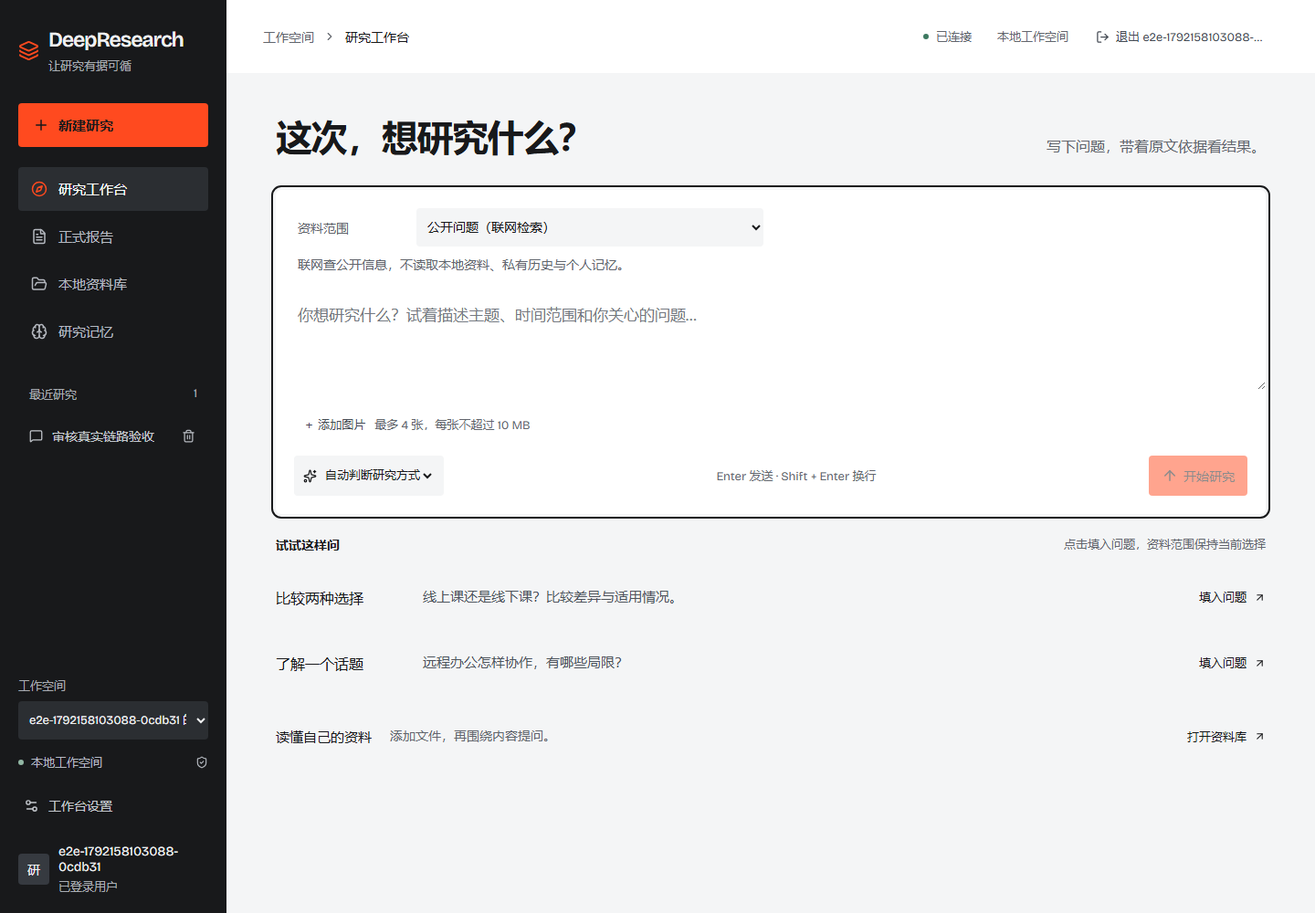
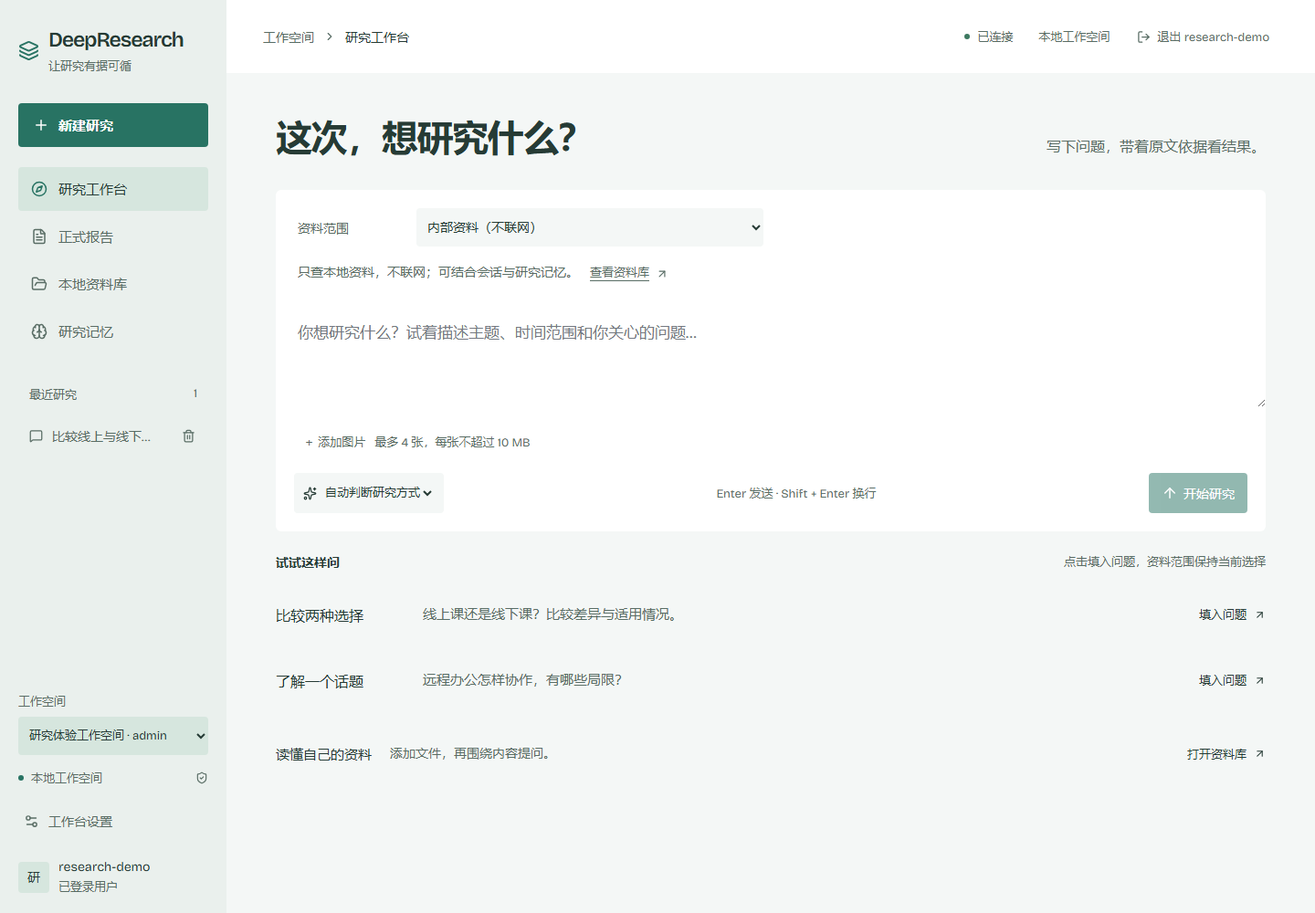
style: unify research workspace with a calm light palette

diff --git a/frontend/src/style.css b/frontend/src/style.css
@@ -7,10 +7,12 @@
 }
 :root {
   font-family: "Bricolage Grotesque", "PingFang SC", "Microsoft YaHei", sans-serif;
-  color: #18191b; background: #f4f5f6; font-synthesis: none; font-size: 16px;
-  --bg: #f4f5f6; --paper: #fff; --surface: #e5e7e9; --ink: #18191b;
-  --muted: #62666d; --accent: #ff4a1f; --accent-hover: #ff633d; --link: #a72e12;
-  --line: #c5c8cc; --sidebar: 248px; --radius: 4px; --ease: cubic-bezier(.22, 1, .36, 1);
+  color: var(--ink); background: var(--bg); color-scheme: light; font-synthesis: none; font-size: 16px;
+  --bg: #f4f7f6; --paper: #fff; --surface: #e7eeeb; --ink: #263b35;
+  --muted: #596d65; --accent: #287363; --accent-hover: #205f52; --accent-ink: #fff; --link: #246b5c;
+  --nav-bg: #eaf0ed; --selected: #d6e6de; --hover: #dfe9e4;
+  --subtle: #f0f4f2; --danger-bg: #f5dedb; --danger-ink: #842e27;
+  --line: #bccbc3; --sidebar: 248px; --radius: 4px; --ease: cubic-bezier(.22, 1, .36, 1);
 }
 * { box-sizing: border-box; }
 body { margin: 0; }
@@ -33,69 +35,71 @@ svg { vertical-align: middle; }
 
 /* Sign-in: the research statement leads, with existing account actions alongside. */
 .auth-landing { min-height: 100dvh; display: grid; grid-template-columns: 1.1fr 1fr; }
-.auth-story { background: var(--ink); color: var(--bg); padding: 48px clamp(32px, 5vw, 88px); display: flex; flex-direction: column; }
+.auth-story { background: var(--nav-bg); color: var(--ink); padding: 48px clamp(32px, 5vw, 88px); display: flex; flex-direction: column; }
 .auth-brand { display: flex; align-items: center; gap: 12px; font-size: 25px; letter-spacing: -.04em; }
 .auth-brand svg { color: var(--accent); }
 .auth-statement { margin: auto 0; padding: 88px 0; }
 .auth-statement h1 { max-width: 7em; font-size: clamp(48px, 5.6vw, 82px); line-height: 1.3; letter-spacing: -.04em; margin: 0 0 28px; font-weight: 600; }
 .auth-statement h1 > span { display: block; }
-.auth-statement p { max-width: 25em; color: #c7c9cc; font-size: 18px; margin: 0; }
-.auth-method { display: flex; flex-wrap: wrap; align-items: center; gap: 14px; color: #c7c9cc; font-size: 14px; }
-.auth-method svg { color: #868b93; }
+.auth-statement p { max-width: 25em; color: var(--muted); font-size: 18px; margin: 0; }
+.auth-method { display: flex; flex-wrap: wrap; align-items: center; gap: 14px; color: var(--muted); font-size: 14px; }
+.auth-method svg { color: var(--muted); }
 .auth-entry { padding: 64px clamp(28px, 5vw, 80px) 32px; display: flex; flex-direction: column; justify-content: center; }
 .auth-card { width: 100%; max-width: 420px; margin: auto; padding: 40px 0; }
 .auth-card h2 { font-size: 28px; line-height: 1.4; letter-spacing: -.03em; margin: 0 0 20px; font-weight: 600; }
 .auth-card > p { color: var(--muted); margin: 0 0 36px; }
 .auth-primary, .auth-secondary { width: 100%; min-height: 54px; display: flex; justify-content: center; align-items: center; gap: 10px; padding: 14px 20px; border-radius: var(--radius); font-weight: 600; }
-.auth-primary { background: var(--accent); color: var(--ink); justify-content: flex-start; }
+.auth-primary { background: var(--accent); color: var(--accent-ink); justify-content: flex-start; }
 .auth-primary > svg:last-child { margin-left: auto; }
 .auth-primary:hover { background: var(--accent-hover); }
 .auth-secondary { margin-top: 12px; background: var(--surface); }
-.auth-secondary:hover { background: #d9dcdf; }
+.auth-secondary:hover { background: var(--hover); }
 .auth-card > small { display: block; color: var(--muted); margin-top: 24px; line-height: 1.8; }
 .auth-footnote { margin: 36px auto 0; max-width: 420px; font-size: 13px; color: var(--muted); }
-.auth-card .error-banner { margin: 24px 0 0; }
+.auth-card .error-banner { margin: 24px 0 0; color: var(--danger-ink); }
 
 /* Workspace shell. */
 .workspace { display: flex; min-height: 100dvh; }
-.sidebar { width: var(--sidebar); position: fixed; inset: 0 auto 0 0; z-index: 30; background: var(--ink); color: #eff0f1; display: flex; flex-direction: column; padding: 30px 20px 20px; overflow-y: auto; }
-.brand { display: flex; align-items: center; gap: 10px; color: #eff0f1; font-size: 23px; font-weight: 600; letter-spacing: -.05em; text-decoration: none; }
+.sidebar { width: var(--sidebar); position: fixed; inset: 0 auto 0 0; z-index: 30; background: var(--nav-bg); color: var(--ink); display: flex; flex-direction: column; padding: 30px 20px 20px; overflow-y: auto; }
+.brand { display: flex; align-items: center; gap: 10px; color: var(--ink); font-size: 23px; font-weight: 600; letter-spacing: -.05em; text-decoration: none; }
 .brand:hover { text-decoration: none; }
 .brand-mark { display: grid; place-items: center; color: var(--accent); }
-.brand span { display: block; font-size: 13px; color: #a9adb3; letter-spacing: 0; font-weight: 400; margin-top: 6px; }
-.new-button { display: flex; align-items: center; gap: 10px; background: var(--accent); color: var(--ink); border-radius: var(--radius); padding: 13px 16px; margin-top: 32px; min-height: 48px; font-size: 15px; font-weight: 600; }
+.brand span { display: block; font-size: 13px; color: var(--muted); letter-spacing: 0; font-weight: 400; margin-top: 6px; }
+.new-button { display: flex; align-items: center; gap: 10px; background: var(--accent); color: var(--accent-ink); border-radius: var(--radius); padding: 13px 16px; margin-top: 32px; min-height: 48px; font-size: 15px; font-weight: 600; }
 .new-button:hover { background: var(--accent-hover); }
 .sidebar nav { display: grid; gap: 4px; margin-top: 22px; }
-.sidebar nav button { display: flex; align-items: center; gap: 12px; padding: 13px 14px; min-height: 48px; text-align: left; font-size: 15px; color: #b5b9c0; border-radius: var(--radius); }
-.sidebar nav button:hover, .sidebar nav button.selected { background: #2b2e32; color: #fff; }
+.sidebar nav button { display: flex; align-items: center; gap: 12px; padding: 13px 14px; min-height: 48px; text-align: left; font-size: 15px; color: var(--muted); border-radius: var(--radius); }
+.sidebar nav button:hover { background: var(--hover); color: var(--ink); }
+.sidebar nav button.selected { background: var(--selected); color: var(--ink); }
 .sidebar nav button.selected svg { color: var(--accent); }
 .sidebar nav small { margin-left: auto; }
-.history-label { display: flex; justify-content: space-between; margin: 36px 12px 12px; color: #a9adb3; font-size: 13px; }
+.history-label { display: flex; justify-content: space-between; margin: 36px 12px 12px; color: var(--muted); font-size: 13px; }
 .thread-list { flex: 1; min-height: 64px; overflow-y: auto; margin-bottom: 20px; }
-.empty-history { margin: 12px; color: #a9adb3; font-size: 13px; }
+.empty-history { margin: 12px; color: var(--muted); font-size: 13px; }
 .thread-item { display: flex; align-items: center; border-radius: var(--radius); }
-.thread-select { display: flex; align-items: center; gap: 10px; min-width: 0; width: 100%; min-height: 48px; padding: 10px 12px; text-align: left; color: #c3c7cd; font-size: 14px; }
+.thread-select { display: flex; align-items: center; gap: 10px; min-width: 0; width: 100%; min-height: 48px; padding: 10px 12px; text-align: left; color: var(--muted); font-size: 14px; }
 .thread-select > div { min-width: 0; display: grid; gap: 3px; }
 .thread-select span { overflow: hidden; text-overflow: ellipsis; white-space: nowrap; }
-.thread-select small { font-size: 13px; color: #a9adb3; }
-.thread-item:hover, .thread-item.chosen { background: #2b2e32; }
-.thread-item.chosen .thread-select { color: #fff; }
-.thread-item .thread-delete { color: #b5b9c0; flex-shrink: 0; }
-.thread-item .thread-delete:hover { background: #57372f; color: #fff; }
+.thread-select small { font-size: 13px; color: var(--muted); }
+.thread-item:hover { background: var(--hover); }
+.thread-item.chosen { background: var(--selected); }
+.thread-item.chosen .thread-select { color: var(--ink); }
+.thread-item .thread-delete { color: var(--muted); flex-shrink: 0; }
+.thread-item .thread-delete:hover { background: var(--danger-bg); color: var(--danger-ink); }
 .sidebar-bottom { margin-top: auto; }
-.workspace-selector { display: grid; gap: 8px; font-size: 13px; color: #a9adb3; }
-.workspace-selector select { width: 100%; min-width: 0; min-height: 42px; padding: 8px; color: #eff0f1; background: #2b2e32; border: 0; border-radius: var(--radius); font-size: 13px; }
-.local-badge { display: flex; align-items: center; gap: 8px; font-size: 13px; padding: 16px 0; color: #b5b9c0; }
+.workspace-selector { display: grid; gap: 8px; font-size: 13px; color: var(--muted); }
+.workspace-selector select { width: 100%; min-width: 0; min-height: 42px; padding: 8px; color: var(--ink); background: var(--selected); border: 0; border-radius: var(--radius); font-size: 13px; }
+.local-badge { display: flex; align-items: center; gap: 8px; font-size: 13px; padding: 16px 0; color: var(--muted); }
 .local-badge > svg { margin-left: auto; }
 .status-dot { width: 6px; height: 6px; border-radius: 50%; background: #3d7960; display: inline-block; flex-shrink: 0; }
-.local-badge .status-dot { background: #92b7a4; }
+.local-badge .status-dot { background: var(--accent); }
 .status-dot.amber { background: #9c6817; }
-.sidebar-bottom > button { display: flex; align-items: center; gap: 10px; font-size: 14px; color: #c3c7cd; min-height: 44px; width: 100%; text-align: left; }
-.sidebar-bottom > button:hover { color: #fff; }
+.sidebar-bottom > button { display: flex; align-items: center; gap: 10px; font-size: 14px; color: var(--muted); min-height: 44px; width: 100%; text-align: left; }
+.sidebar-bottom > button:hover { color: var(--ink); background: var(--hover); }
 .profile { display: flex; align-items: center; gap: 10px; padding-top: 20px; font-size: 14px; overflow-wrap: anywhere; }
 .profile > div:last-child { min-width: 0; }
-.profile small { display: block; color: #a9adb3; margin-top: 4px; }
-.avatar { display: grid; place-items: center; width: 34px; height: 34px; flex-shrink: 0; background: #363a40; border-radius: var(--radius); }
+.profile small { display: block; color: var(--muted); margin-top: 4px; }
+.avatar { display: grid; place-items: center; width: 34px; height: 34px; flex-shrink: 0; background: var(--selected); color: var(--ink); border-radius: var(--radius); }
 main { margin-left: var(--sidebar); flex: 1; min-width: 0; }
 .topbar { min-height: 76px; display: flex; align-items: center; gap: 20px; padding: 18px 40px; background: var(--paper); }
 .breadcrumb { display: flex; align-items: center; gap: 10px; color: var(--muted); font-size: 14px; min-width: 0; }
@@ -112,7 +116,7 @@ main { margin-left: var(--sidebar); flex: 1; min-width: 0; }
 .welcome h1 { font-size: clamp(30px, 2.8vw, 40px); letter-spacing: -.035em; line-height: 1.4; font-weight: 600; margin: 0; }
 .welcome p { color: var(--muted); font-size: 16px; line-height: 1.8; margin: 0 0 4px; }
 .composer { background: var(--paper); border-radius: 6px; }
-.composer:focus-within { outline: 2px solid var(--ink); outline-offset: 3px; }
+.composer:focus-within { outline: 2px solid var(--accent); outline-offset: 3px; }
 .composer textarea { display: block; width: 100%; padding: 16px 24px; min-height: 112px; resize: vertical; border: 0; background: transparent; color: var(--ink); font-size: 17px; line-height: 1.8; border-radius: var(--radius); }
 .composer textarea::placeholder { color: #747981; }
 .composer textarea:focus-visible { outline: none; }
@@ -122,26 +126,26 @@ main { margin-left: var(--sidebar); flex: 1; min-width: 0; }
 .mode-picker { display: flex; align-items: center; gap: 5px; color: var(--ink); background: var(--bg); border-radius: var(--radius); padding: 0 10px; }
 .mode-picker select { min-height: 44px; border: 0; background: transparent; color: inherit; font-size: 13px; cursor: pointer; max-width: 170px; }
 .composer-hint { font-size: 13px; color: var(--muted); margin-left: auto; }
-.send-button { display: grid; place-items: center; width: 44px; height: 44px; flex-shrink: 0; border-radius: var(--radius); background: var(--accent); color: var(--ink); margin-left: auto; }
+.send-button { display: grid; place-items: center; width: 44px; height: 44px; flex-shrink: 0; border-radius: var(--radius); background: var(--accent); color: var(--accent-ink); margin-left: auto; }
 .send-button:hover:not(:disabled) { background: var(--accent-hover); }
 .start-area .send-button { display: flex; gap: 6px; width: auto; padding: 0 14px; font-size: 14px; font-weight: 500; }
 .examples-title { display: flex; justify-content: space-between; gap: 12px; margin-bottom: 12px; font-size: 14px; font-weight: 600; }
 .examples-title span { font-size: 13px; color: var(--muted); font-weight: 400; }
 .examples { display: grid; gap: 0; }
 .examples > button { display: grid; grid-template-columns: 145px minmax(0, 1fr) auto; gap: 16px; align-items: center; padding: 16px 0; min-height: 72px; background: transparent; border-radius: var(--radius); text-align: left; }
-.examples > button:hover { background: #e9edef; }
+.examples > button:hover { background: var(--surface); }
 .examples h3 { margin: 0; font-size: 16px; font-weight: 500; }
 .examples h3 > svg { display: none; }
-.examples p { margin: 0; font-size: 15px; line-height: 1.8; color: #4e545c; }
+.examples p { margin: 0; font-size: 15px; line-height: 1.8; color: var(--muted); }
 .examples button > span { display: flex; align-items: center; gap: 8px; font-size: 13px; }
 
 /* Controls, notices and data surfaces. */
 .icon-button { display: inline-flex; align-items: center; justify-content: center; width: 44px; height: 44px; border-radius: var(--radius); color: var(--muted); }
 .icon-button:hover { color: var(--ink); background: var(--surface); }
-.text-button { display: inline-flex; align-items: center; justify-content: center; gap: 7px; padding: 10px; min-height: 44px; font-size: 13px; color: #454b54; border-radius: var(--radius); }
-.text-button:hover { background: #e5e9ec; color: var(--ink); }
-.primary { display: inline-flex; align-items: center; justify-content: center; gap: 8px; padding: 12px 18px; min-height: 44px; background: var(--ink); color: #fff; border-radius: var(--radius); font-size: 14px; }
-.primary:hover:not(:disabled) { background: #363a40; }
+.text-button { display: inline-flex; align-items: center; justify-content: center; gap: 7px; padding: 10px; min-height: 44px; font-size: 13px; color: var(--muted); border-radius: var(--radius); }
+.text-button:hover { background: var(--hover); color: var(--ink); }
+.primary { display: inline-flex; align-items: center; justify-content: center; gap: 8px; padding: 12px 18px; min-height: 44px; background: var(--accent); color: var(--accent-ink); border-radius: var(--radius); font-size: 14px; }
+.primary:hover:not(:disabled) { background: var(--accent-hover); }
 .muted { color: var(--muted); font-size: 14px; }
 .block { display: block; margin-top: 12px; }
 .error-banner { display: flex; justify-content: space-between; align-items: center; gap: 12px; margin: 20px 40px 0; padding: 16px 20px; background: #f5dedb; color: #842e27; border-radius: var(--radius); font-size: 14px; overflow-wrap: anywhere; }
@@ -150,7 +154,7 @@ main { margin-left: var(--sidebar); flex: 1; min-width: 0; }
 .inline-warning, .warnings { padding: 16px 18px; margin: 16px 0; background: #f1e5cf; color: #704e1c; font-size: 14px; line-height: 1.8; border-radius: var(--radius); overflow-wrap: anywhere; }
 .warnings summary { cursor: pointer; }
 .danger { color: #963b32; font-size: 14px; }
-.pill { display: inline-block; background: var(--surface); color: #454b54; font-size: 13px; line-height: 1.5; padding: 6px 10px; border-radius: var(--radius); }
+.pill { display: inline-block; background: var(--surface); color: var(--muted); font-size: 13px; line-height: 1.5; padding: 6px 10px; border-radius: var(--radius); }
 .green-pill { background: #dce9e1; color: #325b43; }
 .inline-edit { display: flex; gap: 12px; margin-bottom: 20px; }
 input, select, textarea { max-width: 100%; }
@@ -170,7 +174,7 @@ input, select, textarea { max-width: 100%; }
 .conversation-question span, .current-turn span { min-width: 0; overflow-wrap: anywhere; }
 .current-turn { background: transparent; padding: 0; margin: 0 0 12px; }
 .conversation-response { background: var(--paper); border-radius: var(--radius); overflow: hidden; }
-.conversation-response-heading { display: flex; align-items: center; flex-wrap: wrap; gap: 10px; padding: 14px 20px; background: #e5e7e9; font-size: 14px; }
+.conversation-response-heading { display: flex; align-items: center; flex-wrap: wrap; gap: 10px; padding: 14px 20px; background: var(--surface); font-size: 14px; }
 .conversation-response-heading > span { margin-left: auto; }
 .conversation-markdown.markdown { max-height: 460px; overflow: auto; font-size: 16px; }
 .run-layout { display: grid; grid-template-columns: minmax(0, 1fr) 270px; gap: 28px; }
@@ -180,16 +184,16 @@ input, select, textarea { max-width: 100%; }
 .progress-heading > div { display: flex; align-items: center; gap: 10px; margin-right: auto; font-size: 15px; }
 .node-track { display: flex; flex-wrap: wrap; gap: 14px 18px; padding: 4px 20px 24px; }
 .node { display: flex; align-items: center; gap: 6px; font-size: 13px; color: var(--muted); }
-.node i { width: 16px; height: 16px; border-radius: 50%; background: #e1e4e7; display: grid; place-items: center; }
+.node i { width: 16px; height: 16px; border-radius: 50%; background: var(--surface); display: grid; place-items: center; }
 .node.done { color: #325b43; }
 .node.done i { background: #dce9e1; }
 .node.running { color: var(--link); }
-.node.running i { background: #f5d9ce; }
+.node.running i { background: var(--selected); }
 .node.stopped { color: #765418; }
-.plan-summary { padding: 20px; background: #f5f6f7; font-size: 15px; line-height: 1.8; }
+.plan-summary { padding: 20px; background: var(--subtle); font-size: 15px; line-height: 1.8; }
 .plan-summary p { margin: 8px 0; }
 .plan-summary ol { padding-left: 24px; }
-.event-log { background: #e5e7e9; padding: 16px 20px; max-height: 300px; overflow: auto; font-size: 13px; line-height: 1.9; }
+.event-log { background: var(--surface); padding: 16px 20px; max-height: 300px; overflow: auto; font-size: 13px; line-height: 1.9; }
 .event-log > div { display: flex; gap: 16px; }
 .event-log time { color: var(--muted); white-space: nowrap; font-variant-numeric: tabular-nums; }
 .event-log span { min-width: 0; overflow-wrap: anywhere; }
@@ -197,40 +201,40 @@ input, select, textarea { max-width: 100%; }
 .report-toolbar { display: flex; flex-wrap: wrap; align-items: center; justify-content: space-between; gap: 12px; padding: 18px 28px 0; background: transparent; font-size: 14px; color: var(--muted); }
 .report-toolbar > span { display: flex; align-items: center; gap: 8px; }
 .report-toolbar > div { display: flex; flex-wrap: wrap; gap: 4px; }
-.markdown { padding: 32px clamp(20px, 3vw, 48px); max-width: 78ch; margin-inline: auto; font-size: 16px; line-height: 1.9; color: #292c31; overflow-wrap: anywhere; }
+.markdown { padding: 32px clamp(20px, 3vw, 48px); max-width: 78ch; margin-inline: auto; font-size: 16px; line-height: 1.9; color: var(--ink); overflow-wrap: anywhere; }
 .markdown h1 { font-size: 30px; line-height: 1.5; margin: 0 0 28px; letter-spacing: -.03em; color: var(--ink); }
 .markdown h2 { font-size: 23px; line-height: 1.5; margin: 36px 0 16px; color: var(--ink); }
 .markdown h3 { font-size: 18px; line-height: 1.6; margin-top: 28px; }
 .markdown p { line-height: 1.9; }
 .markdown li { margin: 10px 0; }
 .markdown ul, .markdown ol { padding-left: 24px; }
-.markdown blockquote { margin: 24px 0; padding: 8px 20px; background: var(--bg); color: #434951; }
+.markdown blockquote { margin: 24px 0; padding: 8px 20px; background: var(--bg); color: var(--muted); }
 .markdown table { border-collapse: collapse; display: block; max-width: 100%; overflow: auto; }
 .markdown th, .markdown td { padding: 12px; border: 1px solid var(--line); text-align: left; }
 .markdown pre { overflow: auto; background: var(--bg); padding: 20px; font-size: 14px; }
 .markdown img { max-width: 100%; }
 .report-reader { min-width: 0; }
 .report-reader h2, .report-reader h3 { scroll-margin-top: 76px; }
-.report-contents { position: sticky; top: 8px; z-index: 5; background: #f0f2f3; padding: 0 24px; }
+.report-contents { position: sticky; top: 8px; z-index: 5; background: var(--subtle); padding: 0 24px; }
 .report-contents > summary { cursor: pointer; min-height: 48px; padding: 12px 0; font-size: 14px; font-weight: 500; }
 .report-contents > summary span { color: var(--muted); font-weight: 400; margin-left: 12px; font-size: 13px; }
 .report-contents nav { display: grid; max-height: 45dvh; overflow-y: auto; padding-bottom: 12px; }
 .report-contents a { display: flex; align-items: center; min-height: 44px; padding: 8px 12px; color: var(--ink); font-size: 14px; line-height: 1.6; text-decoration: none; overflow-wrap: anywhere; }
 .report-contents a:hover { background: var(--bg); }
-.report-contents a.nested { padding-left: 28px; color: #535a63; }
+.report-contents a.nested { padding-left: 28px; color: var(--muted); }
 .report-table { max-width: 100%; overflow-x: auto; margin: 24px 0; }
 .report-table.is-wide::before { content: '表格较宽，可左右滑动'; display: block; position: sticky; left: 0; width: fit-content; padding-bottom: 8px; font-size: 13px; color: var(--muted); }
 .report-table table { display: table; max-width: none; margin: 0; }
 .report-table th { white-space: nowrap; background: var(--bg); }
 .report-table td { min-width: 8em; }
-.report-metrics { padding: 16px 28px; background: #f8f9fa; color: var(--muted); font-size: 13px; font-variant-numeric: tabular-nums; }
+.report-metrics { padding: 16px 28px; background: var(--subtle); color: var(--muted); font-size: 13px; font-variant-numeric: tabular-nums; }
 .panel-heading { display: flex; align-items: center; gap: 8px; padding: 18px 0; font-size: 15px; }
 .panel-heading > span { margin-left: auto; font-size: 13px; color: var(--muted); }
-.source-card { display: block; width: 100%; padding: 20px; background: #e9edef; text-align: left; margin-bottom: 8px; border-radius: 6px; }
-.source-card:hover { background: #dfe5e9; }
-.source-card small { font-size: 13px; color: #535a63; overflow-wrap: anywhere; }
+.source-card { display: block; width: 100%; padding: 20px; background: var(--surface); text-align: left; margin-bottom: 8px; border-radius: 6px; }
+.source-card:hover { background: var(--hover); }
+.source-card small { font-size: 13px; color: var(--muted); overflow-wrap: anywhere; }
 .source-card h4 { font-size: 16px; font-weight: 500; line-height: 1.8; margin: 12px 0; overflow-wrap: anywhere; }
-.source-card p { font-size: 13px; color: #535a63; margin: 0; overflow-wrap: anywhere; }
+.source-card p { font-size: 13px; color: var(--muted); margin: 0; overflow-wrap: anywhere; }
 .source-card > span { display: flex; align-items: center; gap: 8px; font-size: 13px; margin-top: 16px; color: var(--link); }
 .source-note { display: flex; gap: 12px; margin-top: 24px; color: var(--muted); }
 .source-note > svg { flex-shrink: 0; margin-top: 5px; }
@@ -246,12 +250,12 @@ input, select, textarea { max-width: 100%; }
 /* Documents, memory and settings use the same reading and control sizes. */
 .utility-view { width: 100%; max-width: 1080px; margin: 0 auto; padding: 48px 48px 64px; }
 .utility-view h1 { font-size: clamp(28px, 2.8vw, 38px); font-weight: 600; line-height: 1.5; letter-spacing: -.035em; margin: 0 0 20px; }
-.intro { max-width: 48em; font-size: 16px; color: #515861; margin: 0 0 32px; }
+.intro { max-width: 48em; font-size: 16px; color: var(--muted); margin: 0 0 32px; }
 .upload-zone { display: flex; align-items: flex-start; flex-direction: column; gap: 14px; width: 100%; background: var(--surface); padding: 32px; text-align: left; border-radius: var(--radius); }
-.upload-zone:hover { background: #dadee2; }
+.upload-zone:hover { background: var(--hover); }
 .upload-zone strong { font-size: 19px; font-weight: 500; }
 .upload-zone span { font-size: 14px; line-height: 1.8; }
-.upload-zone small { font-size: 13px; line-height: 1.8; color: #535a63; }
+.upload-zone small { font-size: 13px; line-height: 1.8; color: var(--muted); }
 .section-heading { display: flex; justify-content: space-between; align-items: center; gap: 12px; margin: 32px 0 16px; }
 .section-heading h3 { font-size: 18px; font-weight: 500; margin: 0; }
 .section-heading > span { font-size: 13px; color: var(--muted); }
@@ -260,7 +264,7 @@ input, select, textarea { max-width: 100%; }
 .list-content { flex: 1; min-width: 150px; }
 .list-content strong { font-size: 15px; font-weight: 500; overflow-wrap: anywhere; }
 .list-content small { display: block; font-size: 13px; margin-top: 8px; color: var(--muted); }
-.empty-state { padding: 36px 24px; color: var(--muted); text-align: center; background: #e5e7e9; border-radius: var(--radius); }
+.empty-state { padding: 36px 24px; color: var(--muted); text-align: center; background: var(--surface); border-radius: var(--radius); }
 .empty-state p { font-size: 15px; }
 .memory-editor, .settings-card { padding: 28px; margin: 20px 0; background: var(--paper); border-radius: var(--radius); }
 .memory-editor label, .settings-card label { display: block; font-size: 15px; }
@@ -296,12 +300,12 @@ input, select, textarea { max-width: 100%; }
 .source-drawer h3 { font-size: 17px; margin-top: 32px; }
 .source-excerpt { padding: 20px; background: var(--bg); white-space: pre-wrap; overflow-wrap: anywhere; font-size: 16px; line-height: 1.9; }
 .report-workflow .report-list-item { width: 100%; text-align: left; }
-.report-list-item:hover { background: #e0e3e6; }
+.report-list-item:hover { background: var(--hover); }
 .report-list-item > span:nth-child(2) { display: grid; gap: 8px; flex: 1; min-width: 150px; }
 .report-list-item small { font-size: 13px; color: var(--muted); overflow-wrap: anywhere; }
 .publication-detail { margin-top: 16px; }
-.publication-meta { padding: 16px 24px; font-size: 14px; line-height: 1.9; color: var(--muted); overflow-wrap: anywhere; background: #f8f9fa; }
-.publication-evidence { padding: 24px; background: #f5f6f7; }
+.publication-meta { padding: 16px 24px; font-size: 14px; line-height: 1.9; color: var(--muted); overflow-wrap: anywhere; background: var(--subtle); }
+.publication-evidence { padding: 24px; background: var(--subtle); }
 .publication-evidence h3 { font-size: 18px; margin: 0 0 20px; }
 .review-actions { display: flex; flex-wrap: wrap; align-items: flex-end; gap: 12px; padding: 24px; background: var(--bg); }
 .review-actions label { display: grid; gap: 10px; width: 100%; font-size: 15px; }
@@ -441,11 +445,11 @@ input, select, textarea { max-width: 100%; }
 /* Results lead; optional execution, usage and audit details remain reachable. */
 .result-quality { padding: 12px 16px; margin: 0 0 20px; background: #f1e5cf; color: #704e1c; font-size: 14px; line-height: 1.8; border-radius: 6px; }
 .report-actions { display: flex; flex-wrap: wrap; align-items: center; gap: 8px; padding: 0 28px 16px; }
-.report-actions .review-submit { background: var(--ink); color: #fff; padding: 12px 18px; }
-.report-actions .review-submit:hover:not(:disabled) { background: #363a40; }
-.review-guidance { padding: 0 28px; margin: 0 0 20px; font-size: 14px; line-height: 1.8; color: #62666d; }
+.report-actions .review-submit { background: var(--accent); color: var(--accent-ink); padding: 12px 18px; }
+.report-actions .review-submit:hover:not(:disabled) { background: var(--accent-hover); }
+.review-guidance { padding: 0 28px; margin: 0 0 20px; font-size: 14px; line-height: 1.8; color: var(--muted); }
 .technical-details { font-size: 14px; line-height: 1.8; }
-.technical-details > summary { cursor: pointer; min-height: 44px; padding: 10px 0; color: #535a63; }
+.technical-details > summary { cursor: pointer; min-height: 44px; padding: 10px 0; color: var(--muted); }
 .technical-details > summary:hover { color: var(--ink); }
 .technical-details > summary:focus-visible { outline-offset: 0; }
 .metrics-grid { display: flex; flex-wrap: wrap; gap: 12px 20px; padding: 8px 0 16px; }
@@ -454,7 +458,7 @@ input, select, textarea { max-width: 100%; }
 .publication-limits { padding: 16px 24px; background: #f1e5cf; color: #704e1c; font-size: 14px; line-height: 1.8; margin: 20px 24px 0; border-radius: 6px; }
 .publication-limits p, .publication-limits ul { margin: 6px 0; }
 .publication-limits .technical-details > summary { color: #704e1c; }
-.publication-review-note { padding: 0 24px; color: #515861; font-size: 14px; margin: 16px 0 0; }
+.publication-review-note { padding: 0 24px; color: var(--muted); font-size: 14px; margin: 16px 0 0; }
 .publication-meta > div { padding: 12px 0; }
 .back-to-reports { padding-left: 0; }
 .report-workflow > h1 { margin-bottom: 12px; }
